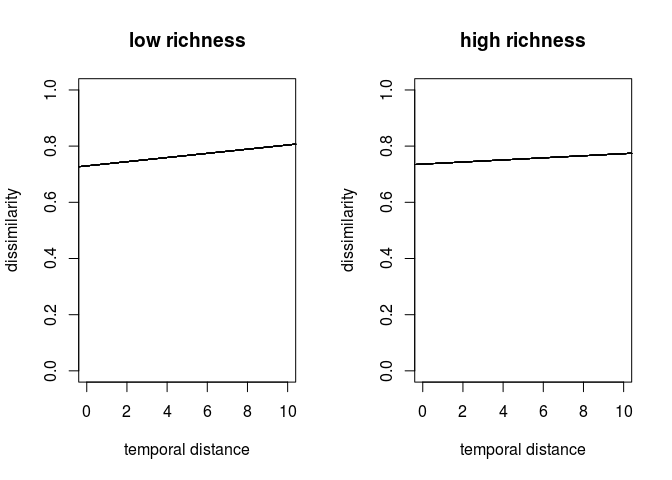
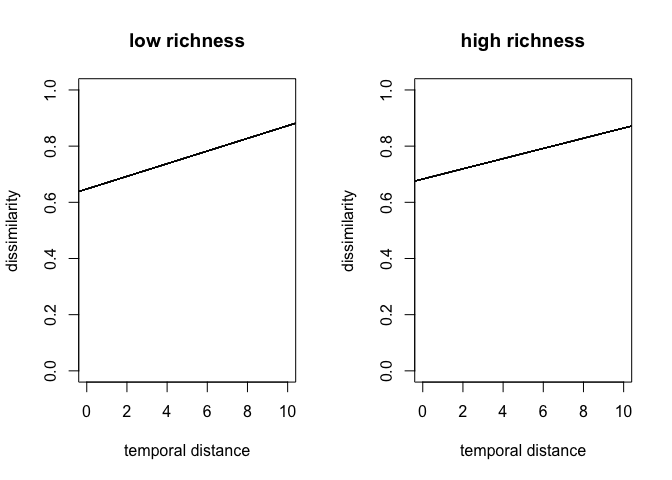
Clean up the richness simulations.

diff --git a/code/turnover_richness_sim.md b/code/turnover_richness_sim.md
@@ -1,6 +1,20 @@
-simulations to test effects of random sampling and species richness
+Simulations to test effects of random sampling and species richness
 interactions
 ================
+
+- [Simple scenario of species
+  turnover](#simple-scenario-of-species-turnover)
+  - [100% of species sampled](#100-of-species-sampled)
+  - [50% of species sampled](#50-of-species-sampled)
+    - [Calculate turnover rates](#calculate-turnover-rates)
+    - [Plot turnover rates as lines](#plot-turnover-rates-as-lines)
+    - [Plot turnover rates as
+      densities](#plot-turnover-rates-as-densities)
+
+Do assemblages with higher species richness have higher turnover rates?
+Let’s test this with some simple simulations. If true, it might explain
+higher turnover rates at higher temperatures, since species richness is
+often higher in the tropics.
 
 ``` r
 # set parameters for simulations
@@ -44,14 +58,16 @@ reps <- 1000 # number of times to repeat the sampling
 set.seed(1001)
 ```
 
-# simple scenario of species turnover
+# Simple scenario of species turnover
 
 Add 5% new species and remove 5% of existing species each time step. A
-high and a low richness treatment
+high and a low richness treatment.
 
 ## 100% of species sampled
 
-Results don’t depend on species richness.
+When we sample all species present, the turnover rates don’t depend on
+species richness. They are exactly the same in both species richness
+treatments.
 
 ``` r
 # make the communities
@@ -130,7 +146,9 @@ highdist
 
 ## 50% of species sampled
 
-This adds sampling noise
+This simulation adds sampling noise such that a random 50% of species
+are observed. This is repeated many times to understand central
+tendencies.
 
 ``` r
 for(i in 1:reps){
@@ -175,50 +193,50 @@ for(i in 1:reps){
 
     ## [1] "low species richness with obs error"
     ##            1         2         3         4         5         6         7
-    ## 1  0.0000000 0.7619048 0.6621622 0.7710843 0.7640449 0.7701149 0.8414634
-    ## 2  0.7619048 0.0000000 0.6621622 0.6923077 0.7209302 0.8111111 0.7820513
-    ## 3  0.6621622 0.6621622 0.0000000 0.7721519 0.7349398 0.6400000 0.7837838
-    ## 4  0.7710843 0.6923077 0.7721519 0.0000000 0.6153846 0.6708861 0.8076923
-    ## 5  0.7640449 0.7209302 0.7349398 0.6153846 0.0000000 0.5875000 0.7051282
-    ## 6  0.7701149 0.8111111 0.6400000 0.6708861 0.5875000 0.0000000 0.6575342
-    ## 7  0.8414634 0.7820513 0.7837838 0.8076923 0.7051282 0.6575342 0.0000000
-    ## 8  0.7901235 0.7901235 0.8518519 0.7532468 0.6315789 0.6710526 0.7101449
-    ## 9  0.8372093 0.8235294 0.8271605 0.7594937 0.6913580 0.7125000 0.7534247
-    ## 10 0.8620690 0.6973684 0.8101266 0.7564103 0.7195122 0.7710843 0.7142857
+    ## 1  0.0000000 0.7236842 0.6666667 0.7468354 0.7333333 0.7750000 0.7738095
+    ## 2  0.7236842 0.0000000 0.7051282 0.6849315 0.8051948 0.7974684 0.8636364
+    ## 3  0.6666667 0.7051282 0.0000000 0.6623377 0.6800000 0.7710843 0.7977528
+    ## 4  0.7468354 0.6849315 0.6623377 0.0000000 0.7466667 0.7402597 0.6923077
+    ## 5  0.7333333 0.8051948 0.6800000 0.7466667 0.0000000 0.7083333 0.7594937
+    ## 6  0.7750000 0.7974684 0.7710843 0.7402597 0.7083333 0.0000000 0.6533333
+    ## 7  0.7738095 0.8636364 0.7977528 0.6923077 0.7594937 0.6533333 0.0000000
+    ## 8  0.7710843 0.8352941 0.7674419 0.7530864 0.8024691 0.7341772 0.6538462
+    ## 9  0.7875000 0.8250000 0.7375000 0.7532468 0.7222222 0.7500000 0.5915493
+    ## 10 0.8313253 0.9195402 0.8522727 0.8148148 0.8354430 0.7662338 0.6301370
     ##            8         9        10
-    ## 1  0.7901235 0.8372093 0.8620690
-    ## 2  0.7901235 0.8235294 0.6973684
-    ## 3  0.8518519 0.8271605 0.8101266
-    ## 4  0.7532468 0.7594937 0.7564103
-    ## 5  0.6315789 0.6913580 0.7195122
-    ## 6  0.6710526 0.7125000 0.7710843
-    ## 7  0.7101449 0.7534247 0.7142857
-    ## 8  0.0000000 0.7297297 0.7432432
-    ## 9  0.7297297 0.0000000 0.6619718
-    ## 10 0.7432432 0.6619718 0.0000000
+    ## 1  0.7710843 0.7875000 0.8313253
+    ## 2  0.8352941 0.8250000 0.9195402
+    ## 3  0.7674419 0.7375000 0.8522727
+    ## 4  0.7530864 0.7532468 0.8148148
+    ## 5  0.8024691 0.7222222 0.8354430
+    ## 6  0.7341772 0.7500000 0.7662338
+    ## 7  0.6538462 0.5915493 0.6301370
+    ## 8  0.0000000 0.7307692 0.6800000
+    ## 9  0.7307692 0.0000000 0.7631579
+    ## 10 0.6800000 0.7631579 0.0000000
     ## [1] "high species richness"
     ##            1         2         3         4         5         6         7
-    ## 1  0.0000000 0.6611675 0.7326478 0.7306733 0.7506266 0.7647059 0.7909739
-    ## 2  0.6611675 0.0000000 0.7046036 0.6888331 0.7135678 0.7269373 0.7662338
-    ## 3  0.7326478 0.7046036 0.0000000 0.7072848 0.7283622 0.7615385 0.7341115
-    ## 4  0.7306733 0.6888331 0.7072848 0.0000000 0.6996047 0.6954248 0.7509294
-    ## 5  0.7506266 0.7135678 0.7283622 0.6996047 0.0000000 0.6973333 0.7148438
-    ## 6  0.7647059 0.7269373 0.7615385 0.6954248 0.6973333 0.0000000 0.7089263
-    ## 7  0.7909739 0.7662338 0.7341115 0.7509294 0.7148438 0.7089263 0.0000000
-    ## 8  0.8000000 0.7965116 0.7909887 0.7493734 0.7195282 0.7202073 0.6920052
-    ## 9  0.8172293 0.7815421 0.8078335 0.7701711 0.7656642 0.7392405 0.6985770
-    ## 10 0.8337156 0.8109339 0.8210399 0.7983294 0.7534766 0.7537500 0.7253165
+    ## 1  0.0000000 0.6747759 0.7182741 0.7424623 0.7183272 0.7500000 0.7882070
+    ## 2  0.6747759 0.0000000 0.6907895 0.6818182 0.7146433 0.7327478 0.7887668
+    ## 3  0.7182741 0.6907895 0.0000000 0.7271523 0.7316456 0.7124183 0.7759494
+    ## 4  0.7424623 0.6818182 0.7271523 0.0000000 0.6760000 0.7157895 0.7590674
+    ## 5  0.7183272 0.7146433 0.7316456 0.6760000 0.0000000 0.6877419 0.7042802
+    ## 6  0.7500000 0.7327478 0.7124183 0.7157895 0.6877419 0.0000000 0.6976127
+    ## 7  0.7882070 0.7887668 0.7759494 0.7590674 0.7042802 0.6976127 0.0000000
+    ## 8  0.8179775 0.7885514 0.7643468 0.7678133 0.7283800 0.6867008 0.7030848
+    ## 9  0.8257840 0.8014440 0.7997528 0.8019925 0.7586634 0.7534766 0.7110519
+    ## 10 0.8422857 0.8231132 0.8105134 0.7843632 0.7531017 0.7741935 0.7336815
     ##            8         9        10
-    ## 1  0.8000000 0.8172293 0.8337156
-    ## 2  0.7965116 0.7815421 0.8109339
-    ## 3  0.7909887 0.8078335 0.8210399
-    ## 4  0.7493734 0.7701711 0.7983294
-    ## 5  0.7195282 0.7656642 0.7534766
-    ## 6  0.7202073 0.7392405 0.7537500
-    ## 7  0.6920052 0.6985770 0.7253165
-    ## 8  0.0000000 0.6946265 0.7201540
-    ## 9  0.6946265 0.0000000 0.6793693
-    ## 10 0.7201540 0.6793693 0.0000000
+    ## 1  0.8179775 0.8257840 0.8422857
+    ## 2  0.7885514 0.8014440 0.8231132
+    ## 3  0.7643468 0.7997528 0.8105134
+    ## 4  0.7678133 0.8019925 0.7843632
+    ## 5  0.7283800 0.7586634 0.7531017
+    ## 6  0.6867008 0.7534766 0.7741935
+    ## 7  0.7030848 0.7110519 0.7336815
+    ## 8  0.0000000 0.6912145 0.7053571
+    ## 9  0.6912145 0.0000000 0.6873315
+    ## 10 0.7053571 0.6873315 0.0000000
     ## #50 #100 #150 #200 #250 #300 #350 #400 #450 #500 #550 #600 #650 #700 #750 #800 #850 #900 #950 #1000
 
 ``` r
@@ -232,9 +250,11 @@ lowobslong <- data.table(lowobslong)
 highobslong <- data.table(highobslong)
 ```
 
-# calc turnover rates
+### Calculate turnover rates
 
-same central tendencies in both high and low species richness scenarios
+Calculate turnover rates as the slope of dissimilarity vs. time. We find
+the same central tendencies in both high and low species richness
+scenarios.
 
 ``` r
 lowslopes <- lowobslong[, as.list(coef(lm(dist ~ I(X2-X1)))), by=rep]
@@ -251,8 +271,8 @@ print('low richness slopes')
 lowslopes[, summary(slope)]
 ```
 
-    ##      Min.   1st Qu.    Median      Mean   3rd Qu.      Max. 
-    ## -0.004760  0.001912  0.003810  0.003699  0.005450  0.013818
+    ##     Min.  1st Qu.   Median     Mean  3rd Qu.     Max. 
+    ## 0.007309 0.016866 0.019464 0.019356 0.021881 0.030277
 
 ``` r
 print('high richness slopes')
@@ -264,13 +284,15 @@ print('high richness slopes')
 highslopes[, summary(slope)]
 ```
 
-    ##     Min.  1st Qu.   Median     Mean  3rd Qu.     Max. 
-    ## 0.001273 0.003236 0.003807 0.003782 0.004315 0.006207
+    ##    Min. 1st Qu.  Median    Mean 3rd Qu.    Max. 
+    ## 0.01604 0.01866 0.01939 0.01940 0.02012 0.02323
 
-# plot turnover rates as lines
+### Plot turnover rates as lines
 
-More variance in turnover rates for the lower richness scenario. This
-doesn’t plot correctly in the github document.
+We can plot all the turnover rates as sloping slopes. We find more
+variance in turnover rates for the lower richness scenario, though note
+this doesn’t plot correctly in the github document (only one line is
+shown when there should be 1000).
 
 ``` r
 par(mfrow=c(1,2))
@@ -289,10 +311,12 @@ highslopes[, abline(a = int, b = slope, col = '#00000033'), by = rep]
 
     ## Empty data.table (0 rows and 1 cols): rep
 
-# plot turnover rates as densities
+### Plot turnover rates as densities
 
-More variance in turnover rates for the lower richness scenario (black)
-compared to higher richness (red)
+Another way to plot the turnover rates for high and low richness
+scenarios. In addition to the same central tendencies irrespective of
+richness, we do see more variance in turnover rates for the lower
+richness scenario (black) compared to higher richness (red).
 
 ``` r
 lowslopes[, plot(density(slope), ylim =c(0,500), main = 'Turnover rates')]
